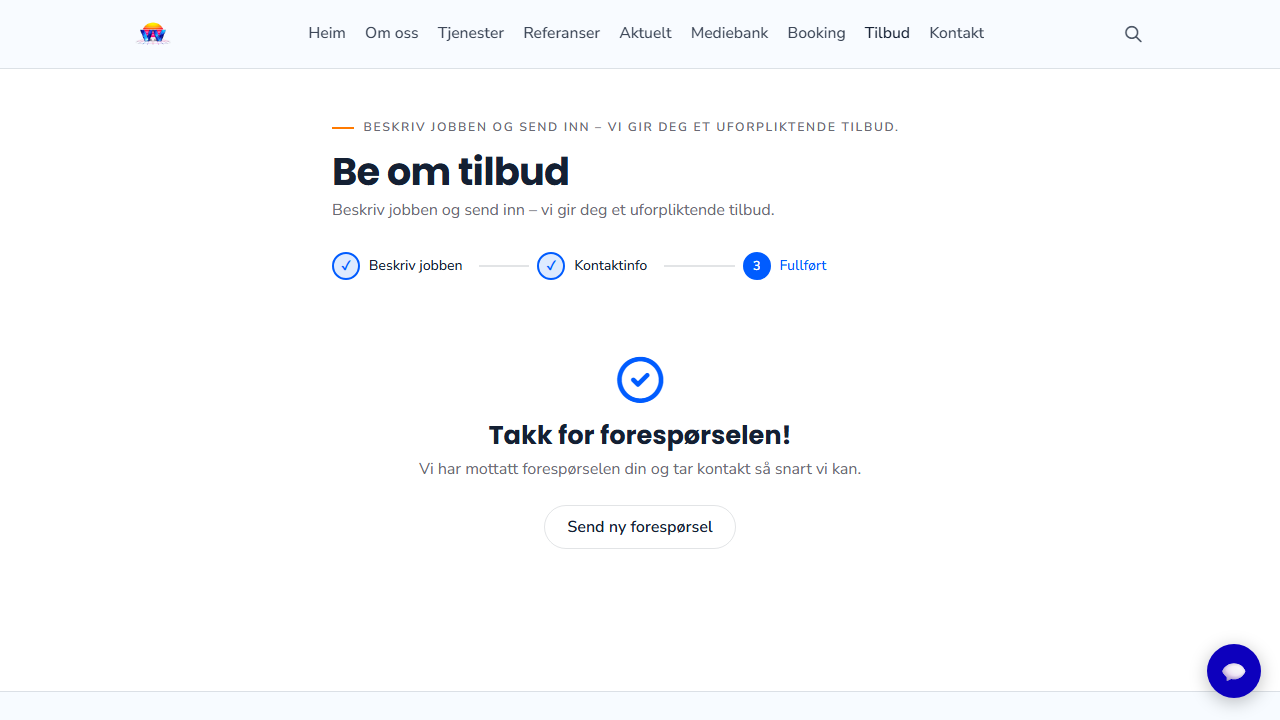
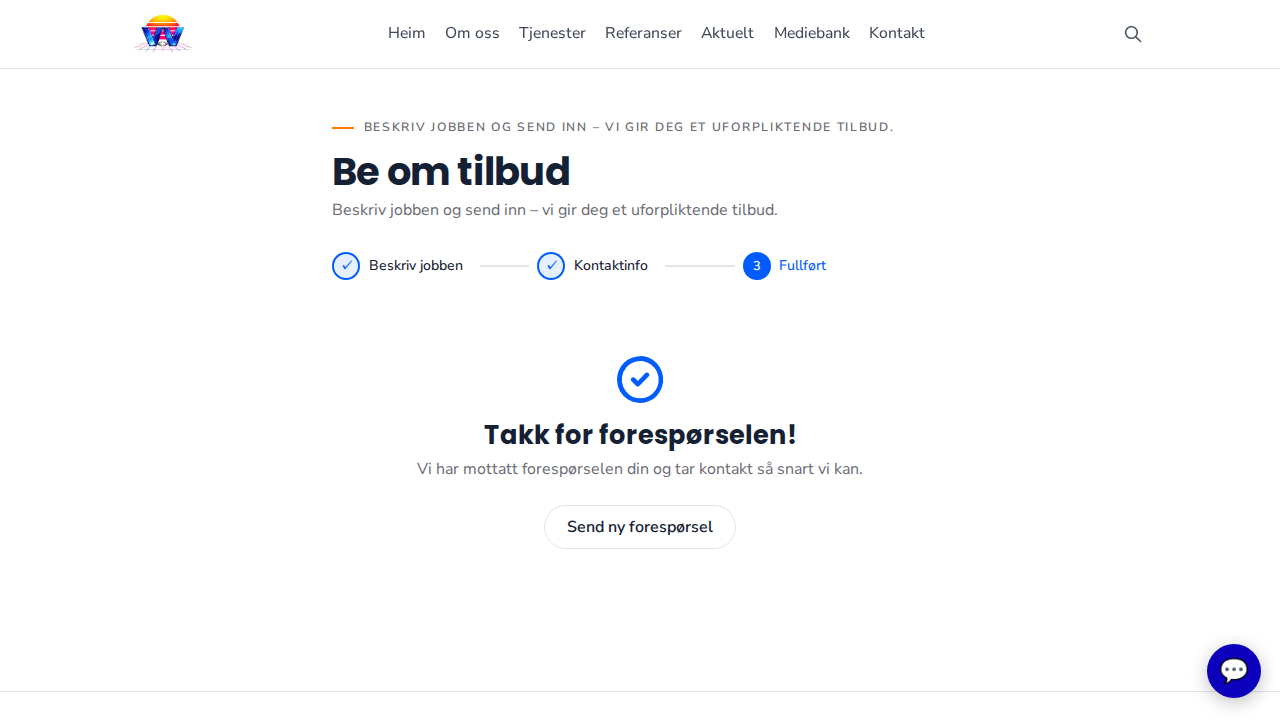
Testing: full run-vibeverk + smoke-vibeverk pass, fiks doc-etterslep (0.98.5) (#197)
Kjørte alle fem run-vibeverk-flytar mot produksjon (home/kontakt/tilbud/
booking/chat) og alle tre autentiserte smoke-vibeverk-flytar mot staging
(dashboard-shortcuts/user-deletion/backup-restore) som del av pilotkunde-
modningsarbeidet. Alle PASSA.

Utvida run-vibeverk sin chat-flyt til å dekkje offline lead-capture-
fallbacken (#vw-off-*), som han tidlegare ikkje testa i det heile sidan
chat-availability i produksjon viste seg å vere 454 timar gamal.

Retta eit dokumentasjons-etterslep: ROADMAP.md/CURRENT_STATE.md lista
feilaktig backup-restore som attståande, sjølv om SKILL.md alt viste han
verifisert PASS 2026-07-18.

Claude-Session: https://claude.ai/code/session_01V7yHJBNJ4ApWW2eRdGfDJW

diff --git a/.claude/skills/run-vibeverk/driver.js b/.claude/skills/run-vibeverk/driver.js
@@ -168,6 +168,7 @@ async function flowChat(page) {
   await page.waitForTimeout(500);
   await page.screenshot({ path: shotPath("chat-widget-open") });
   const startBtn = page.locator("#vw-start-btn");
+  const offEmail = page.locator("#vw-off-email");
   if (await startBtn.count()) {
     await page.fill("#vw-name-inp", TAG);
     await page.fill("#vw-email-inp", "pwtest+" + STAMP + "-chat@example.com");
@@ -175,8 +176,20 @@ async function flowChat(page) {
     if (await terms.count()) await terms.check();
     await page.click("#vw-start-btn");
     await page.waitForTimeout(1200);
+  } else if (await offEmail.count()) {
+    // Offline lead-capture fallback (chat-availability stale/off) — writes a
+    // real `leads` row via App.addLead(), source "chat-offline". Cleanup:
+    // same `leads` query as the kontakt/tilbud flows (email LIKE 'pwtest+%').
+    console.log("Offline lead-capture form detected (chat-availability stale/off) — testing that path instead.");
+    await page.fill("#vw-off-email", "pwtest+" + STAMP + "-chat@example.com");
+    await page.fill("#vw-off-msg", "Driver smoke test (offline fallback) — " + TAG);
+    await page.click("#vw-off-send");
+    await page.waitForTimeout(1200);
+    await page.screenshot({ path: shotPath("chat-offline-after-send") });
+    console.log("Offline success message:", await page.locator(".vw-msg--op").last().textContent().catch(() => null));
+    return;
   } else {
-    console.log("No start form — likely the offline fallback (see note above), or a conversation is already active.");
+    console.log("No start form and no offline form — likely a conversation is already active.");
   }
   const inp = page.locator("#vw-inp");
   await inp.waitFor({ timeout: 8000 }).catch(() => {});

diff --git a/console/console-core.js b/console/console-core.js
@@ -28,7 +28,7 @@ window.VwConsole = (function () {
   var CONTROL_ANON_KEY = "eyJhbGciOiJIUzI1NiIsInR5cCI6IkpXVCJ9.eyJpc3MiOiJzdXBhYmFzZSIsInJlZiI6Imp4b2dsdGhybnNoYWJxbWRtbnVpIiwicm9sZSI6ImFub24iLCJpYXQiOjE3ODM0NTU5NDMsImV4cCI6MjA5OTAzMTk0M30.W1_bBTWxbalRdxuDnIFrRdoNFcOI8IECCbGIxTkiECM";
 
   // Plattformversjon — bump ved kvar meiningsfulle endring, sjå docs/project/CHANGELOG.md
-  var VIBEVERK_VERSION = "0.98.4";
+  var VIBEVERK_VERSION = "0.98.5";
 
   if (!App || !C) {
     var errEl = document.getElementById("console-app");

diff --git a/console/index.html b/console/index.html
@@ -734,6 +734,6 @@
   <script src="../template-klassisk.js?v=1"></script>
   <script src="../template-panorama.js?v=1"></script>
   <script src="../template-scrollstory.js?v=1"></script>
-  <script src="console-core.js?v=220"></script>
+  <script src="console-core.js?v=221"></script>
 </body>
 </html>

diff --git a/docs/project/CHANGELOG.md b/docs/project/CHANGELOG.md
@@ -30,6 +30,18 @@ Små eksperiment, reine spørsmål/analysar eller reverta forsøk treng ikkje ei
 
 ---
 
+## 0.98.5 — 2026-08-05
+
+**Testing/QA, ingen produktendring:** Full gjennomkøyring av begge Playwright-testverktøya, som del av pilotkunde-modningsarbeidet brukaren etterspurde.
+
+- **`run-vibeverk`** (anonyme flytar, alltid mot produksjon): alle fem flytar (`home`/`kontakt`/`tilbud`/`booking`/`chat`) køyrde og PASSA. Chat-flyten (`flowChat` i `driver.js`) hadde tidlegare INGEN dekning for offline lead-capture-fallbacken (`#vw-off-*`) — testa berre den ferske-chat-availability-vegen, som i praksis aldri var aktiv (`chat-availability` i produksjon synte seg å vere 454 timar gamal, langt utanfor 8-timars-fristen klienten handhevar). Utvida `flowChat` til å oppdage og teste offline-skjemaet når det live-skjemaet ikkje finst — stadfesta at det faktisk fungerer (skriv ein ekte `leads`-rad via `App.addLead()`, `source: "chat-offline"`). Alle 4 test-rader (3 leads + 1 booking, som verkeleg oppteok ein ekte kalender-slot) stadfesta med eksplisitt `id`-liste og sletta, etterfølgt av ein uavhengig verifiseringsspørring (0 attverande rader) — aldri stola på ein rein exit-kode.
+- **`smoke-vibeverk`** (autentiserte flytar mot `vibeverk-staging`): `dashboard-shortcuts`, `user-deletion` og `backup-restore` køyrde alle på nytt og PASSA. **Retta eit dokumentasjons-etterslep**: `docs/roadmap/ROADMAP.md` og `docs/project/CURRENT_STATE.md` lista feilaktig `backup-restore` som attståande, sjølv om `SKILL.md` sin eigen statustabell alt viste han som implementert og verifisert PASS 2026-07-18 — no retta til å reflektere faktisk status, med 2026-08-05-re-stadfestinga notert. `config.js` stadfesta uendra (`git diff`) etter kvar køyring.
+- Undervegs vart ein reell tilkoplingsfeil i staging sin `--db-url`-arbeidsflyt diagnostisert og fiksa av brukaren: Dashboard sin standard "Connection string"-boks peikar på det DIREKTE databasehostnamnet (`db.<ref>.supabase.co`), som Supabase berre eksponerer over IPv6 -- feilar med `ENETUNREACH` i eit miljø utan IPv6-rute. Rett kjelde er **Connection pooling**-boksen (`aws-0-<region>.pooler.supabase.com`), som er dual-stack. Ikkje ein kodefeil, men verdt å notere for neste person som set opp `VW_STAGING_DB_URL`.
+
+Ingen `console-core.js`/modul-endring i denne oppføringa — berre testverktøy (`.claude/skills/run-vibeverk/driver.js`) og dokumentasjonsretting.
+
+---
+
 ## 0.98.4 — 2026-08-05
 
 **Ny funksjonalitet:** «Regn ut årsinntekt fra antall kunder» (0.98.2/0.98.3, same økt) fekk to nye måltal-felt (`Måltall 1. år`, `Måltall år 2+`) og eit søylediagram som viser dei faktiske summane mot desse måltala — brukarønske: "sette eit måltall for 1. år og 2. år og lage ein graf, lignende den akkumulerte". Valde design stadfesta med brukaren via `AskUserQuestion` (søyler + mållinje, ikkje fremdriftslinjer).

diff --git a/docs/project/CURRENT_STATE.md b/docs/project/CURRENT_STATE.md
@@ -53,7 +53,7 @@ Staging is missing `send-reply`/`inbound-email`, so outbound/inbound email canno
 - **Design templates ("sidebygger")**: three site-wide templates (Klassisk, Panorama, Scroll-story), plus customer-editable Tagline/SEO/colours/fonts/logo in a dedicated Web-admin "Design" tab. **`features.sidebygger` is `true` on BOTH real tenants** (directly queried against `store.superconfig` on production and Sunnvask-demo 2026-07-19 — an earlier draft of this file wrongly claimed it was off everywhere, caught and corrected the same day by the user spotting it live in a screenshot of their own admin panel; don't trust this kind of claim without a direct query again). See `docs/roadmap/ROADMAP.md` "Later" for what's still open here.
 - **`customModules` manifest**: pipeline built and proven end-to-end (a real per-customer custom module shipped and loaded). No second real customer module exists yet — ordinary future dev work, not an open roadmap item.
 - **Support access**: `generate_support_access` mints a time-boxed, audit-logged magic link for an existing real admin at a tenant (impersonation via real identity, no standing/phantom account) — privacy-reviewed, no code changes required by that review.
-- **Testing**: `test.js`/`test-workspace.js` jsdom harnesses (counts above), run in CI on every push. A separate Playwright smoke-test suite (`.claude/skills/smoke-vibeverk/`) exists against `vibeverk-staging` for `dashboard-shortcuts` and `user-deletion` (both PASS live) — `backup-restore`, the full login matrix, and Console's onboarding checklist are still not covered by it.
+- **Testing**: `test.js`/`test-workspace.js` jsdom harnesses (counts above), run in CI on every push. A separate Playwright smoke-test suite (`.claude/skills/smoke-vibeverk/`) exists against `vibeverk-staging` for `dashboard-shortcuts`, `user-deletion`, `backup-restore` and `crm-documents` (all PASS live, `backup-restore` re-verified 2026-08-05 — this document previously and incorrectly listed it as not yet covered, a documentation-staleness gap, not a real one; see `SKILL.md`'s own status table, which was correct) — the full login matrix and Console's onboarding checklist are still not covered by it. The `run-vibeverk` anonymous-flow driver (`.claude/skills/run-vibeverk/`, always against production) was also re-run in full 2026-08-05 (home/kontakt/tilbud/booking/chat, all PASS) and extended to also exercise the chat widget's offline lead-capture fallback (`#vw-off-*`), which it previously had no coverage for at all.
 
 ### Modules added since the 2026-07-19 verification pass (not yet covered by the facts above)
 

diff --git a/docs/roadmap/ROADMAP.md b/docs/roadmap/ROADMAP.md
@@ -21,7 +21,7 @@ Den tekniske SaaS-skaleringsplanen (Fase 1–9, kontrollplan/dataplan-splitt, ho
 ## Next
 
 1. **Køyr testmatrisa** (`.claude/skills/smoke-vibeverk/TEST-MATRIX.md`) mot dei to reelle tenantane. Sunnvask-demo sin driftsgjeld (9 manglande migrasjonar + 3 manglande Edge Functions) vart stadfesta OG lukka 2026-07-19 — begge tenantar er no fullt oppdaterte og deployment-like, så seksjon D (demo-spesifikke testar) i matrisa er ikkje lenger blokkert av eit prerequisite-gap.
-2. **Hald fram den automatiserte Playwright-smoke-testpakken** mot `vibeverk-staging` (`.claude/skills/smoke-vibeverk/`). `dashboard-shortcuts` og `user-deletion` er stadfesta PASS live. Attståande i QA sin tilrådde rekkjefølgje: `backup-restore`, full innloggingsmatrise, Console sin onboarding-sjekkliste.
+2. **Hald fram den automatiserte Playwright-smoke-testpakken** mot `vibeverk-staging` (`.claude/skills/smoke-vibeverk/`). `dashboard-shortcuts`, `user-deletion` og `backup-restore` er alle stadfesta PASS live (`backup-restore` opphavleg 2026-07-18, re-stadfesta 2026-08-05 -- denne fila lista han tidlegare feilaktig som attståande, eit dokumentasjons-etterslep, ikkje eit reelt hol). Attståande i QA sin tilrådde rekkjefølgje: full innloggingsmatrise, Console sin onboarding-sjekkliste. `run-vibeverk`-driveren (anonyme flytar mot produksjon) vart òg full-køyrd 2026-08-05 og utvida til å dekkje chat-widgeten sin offline-fallback (`#vw-off-*`), som han tidlegare ikkje testa i det heile.
 3. **E-post-testingsgapet er delvis løyst**: Sunnvask-demo har no `send-reply`/`inbound-email` deploya (2026-07-19), så e-post-flytar kan testast der i staden for berre mot produksjon. `vibeverk-staging` manglar framleis begge funksjonane — framleis ei ope avgjerd om dei skal deployast dit òg, eller om Sunnvask-demo held som testmål for dette.
 4. **Personvern — dokumentasjon og forslag** (uendra prioritet frå 2026-07-13/17, ikkje reprioritert denne runda): DPA-mal, standardkontrakt-mal, personvernerklærings-utkast i `docs/compliance/` — planleggingsmateriale, ikkje eit hastesteg sidan Vibeverk ikkje er eit registrert juridisk selskap i dag og ingen ekte kundar/data er i bruk.
 5. **Attverande, medvite utsette kvalitets-/tilgjengelegheitsfunn** frå Batch 5–6-gjennomgangen (t.d. touch-target-storleik på nokre tettpakka layoutar, Console-fane-innhald sin respons utover sjølve skallet) — treng ekte nettlesar-/mobil-verifisering, ikkje kode-lesing åleine. Sjå `docs/archive/roadmap-history-2026-07-19.md` for den fulle lista.
